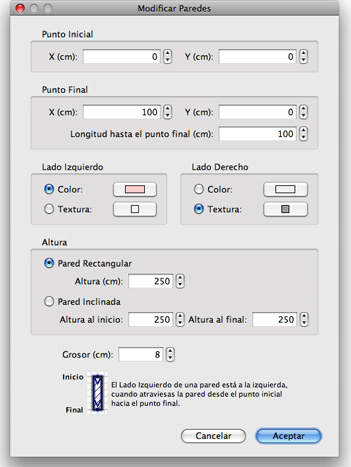
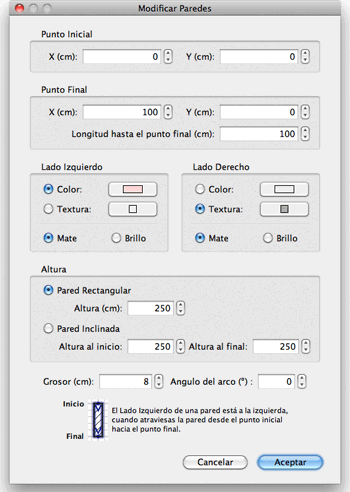
Updated dialog captures
git-svn-id: https://svn.code.sf.net/p/sweethome3d/code/trunk@2874 03e323e1-6c6c-46a5-9f71-c4ce5d8c6204

diff --git a/com/eteks/sweethome3d/viewcontroller/resources/help/cs/editingWalls.html b/com/eteks/sweethome3d/viewcontroller/resources/help/cs/editingWalls.html
@@ -74,7 +74,7 @@
 Při stisku tlačítka myši se zobrazí kontextová nápověda zobrazující délku vybrané zdi.<br>
         Veškeré úpravy zdí ve 2D plánu projektu se automaticky projevují ve 3D náhledu.</p>
         <p>Zdi můžete rovněž upravovat pomocí okna, které spustíte buď dvojitým kliknutím na vybrané zdi v plánu, nebo po označení zdi nabídkou  <i>Plán &gt; Upravit zdi...</i>.</p>
-        <p align="center"><img src="images/editingWalls.png" width="356" height="465"></p>
+        <p align="center"><img src="images/editingWalls.png" width="368" height="495"></p>
         <p>V okně úpravy zdí můžete měnit&nbsp;umístěn počátečního a konečného bodu zdi, barvu nebo texturu její levé i pravé strany, její tloušťku a výšku.<br>
 
           Jedná-li se o šikmou zeď, použijte jinou výšku jejího počátečního i konečného bodu a ujistěte se, že jste označili políčko <i>Šikmá zeď</i>.<br>

diff --git a/com/eteks/sweethome3d/viewcontroller/resources/help/bg/editingFurniture.html b/com/eteks/sweethome3d/viewcontroller/resources/help/bg/editingFurniture.html
@@ -129,7 +129,7 @@
 обекти, или като го маркирате и изберете менюто <i>Мебелировка
 &gt;&nbsp;Промени...</i> .</p>
           
-<p align="center"><img src="images/editingFurniture.png" alt="Промяна характеристиките на мебел" height="232" width="441"></p>
+          <p align="center"><img src="images/editingFurniture.png" alt="Промяна характеристиките на мебел" height="436" width="465"></p>
 <p>В появилия се панел, Вие можете да промените името на обекта, координатите 
 на неговия център по X и Y в плана, повдигането на основата му от пода, ширината 
 и дълбочината му, неговия цвят или шарка, дали да е видим, завъртането му, дали 

diff --git a/com/eteks/sweethome3d/viewcontroller/resources/help/bg/editingPreferences.html b/com/eteks/sweethome3d/viewcontroller/resources/help/bg/editingPreferences.html
@@ -31,7 +31,7 @@
 <p>За да промените предпочитаните настройки на Sweet Home 3D, 
 изберете <i>Файл &gt; Предпочитания...</i> (<i>Sweet Home 3D &gt;&nbsp;Предпочитания...</i> за Mac OS X).</p>
           
-<p align="center"><img src="images/editingPreferences.png" alt="Предпочитани настройки" width="418" height="348" style="width: 338px; height: 305px;"></p>
+          <p align="center"><img src="images/editingPreferences.png" alt="Предпочитани настройки" width="480" height="428"></p>
 <p>В менюто Предпочитания, можете да промените
 ползвания <i>Език</i> в потребителския интерфейс
 на Sweet Home 3D и <i>Мярката</i>, използвана в

diff --git a/com/eteks/sweethome3d/viewcontroller/resources/help/cs/editingPreferences.html b/com/eteks/sweethome3d/viewcontroller/resources/help/cs/editingPreferences.html
@@ -26,7 +26,7 @@
 <table width="100%" border="0" cellspacing="0" cellpadding="3">
 	<tr>
 	<td><p>Nastavení programu Sweet Home 3D změníte v <i>Sweet Home 3D &gt; Nastavení...</i> v prostředí Mac OS X nebo v <i>Projekt &gt; Nastavení...</i> v jiných systémech.</p>
-	    <p align="center"><img src="images/editingPreferences.png" width="426" height="329"></p>
+	    <p align="center"><img src="images/editingPreferences.png" width="434" height="381"></p>
 	  <p>V okně nastavení můžete měnit <i>jazyk</i> prostředí programu Sweet Home 3D, <i>měrnou jednotku</i> užívanou v pravítku plánu, mřížce a všech dalších rozměrech.    <br>
 						
 	    Políčko <i>přichytávání</i> povoluje či zakazuje užívání přichytávání v plánu projektu při <a href="drawingWalls.html">kreslení zdí</a>

diff --git a/com/eteks/sweethome3d/viewcontroller/resources/help/cs/editingFurniture.html b/com/eteks/sweethome3d/viewcontroller/resources/help/cs/editingFurniture.html
@@ -75,7 +75,7 @@
   Změny nábytku pomocí myši jsou okamžitě promítány do 2D plánu i do 3D náhledu.</p>
 	  <p>Nábytek může být měněn rovněž prostřednictvím okna, které zobrazíte dvojitým kliknutím na vybraný nábytek v plánu projektu nebo v seznamu nábytku,
 	  případně nabídkou <i>Nábytek &gt; Upravit...</i>.</p>
-	    <p align="center"><img src="images/editingFurniture.png" alt="Upravit nábytek" width="393" height="232"></p>
+	    <p align="center"><img src="images/editingFurniture.png" alt="Upravit nábytek" width="400" height="382"></p>
 	  <p>V okně nábytku lze měnit jeho název, úhel otáčení, souřadnici X nebo Y jeho středu, nadzvednutí jeho dna od podlahy, šířku, hloubku, výšku, barvu, viditelnost, a zda má být tvar jeho 3D modelu zrcadlový.<br>
 
 							

diff --git a/com/eteks/sweethome3d/viewcontroller/resources/help/bg/editingRooms.html b/com/eteks/sweethome3d/viewcontroller/resources/help/bg/editingRooms.html
@@ -114,7 +114,7 @@
 променяни и от нейното меню, появяващо се с двойно цъкане върху стаята
 в плана, или чрез избирането на <i>План
 &gt;&nbsp;Промени стая...</i> след като я маркирате.</p>
-          <p align="center"><img src="images/editingRooms.png" height="220" width="296"></p>
+          <p align="center"><img src="images/editingRooms.png" height="284" width="362"></p>
 <p>В менюто на стаята Вие можете да промените името на
 маркираната стая и дали площта и да се изобразява в плана.<br>
 Може да изберете също дали пода и тавана да се изобразяват в 3D

diff --git a/com/eteks/sweethome3d/viewcontroller/resources/help/pl/editingFurniture.html b/com/eteks/sweethome3d/viewcontroller/resources/help/pl/editingFurniture.html
@@ -90,7 +90,7 @@
         <p>Ka&#380;dy mebel mo&#380;e by&#263; r&oacute;wnie&#380; modyfikowany 
           w odpowiednim oknie dost&#281;pnym poprzez podw&oacute;jneklikni&#281;cie 
           obiektu lub menu <i>Meble &gt; Modyfikuj.&nbsp;</i></p>
-        <p align="center"><img src="images/editingFurniture.png" alt="Modify furniture" height="213" width="442"></p>
+        <p align="center"><img src="images/editingFurniture.png" alt="Modify furniture" height="381" width="408"></p>
         <p>W oknie <i>Modyfikuj przedmiot </i>mo&#380;esz zmieni&#263; jego nazw&#281;, 
           k&#261;t obrotu, wsp&oacute;&#322;rz&#281;dne X i Y jego &#347;rodka 
           na siatce planu, podwy&#380;szenie nad poziomem pod&#322;ogi, szeroko&#347;&#263;, 

diff --git a/com/eteks/sweethome3d/viewcontroller/resources/help/pl/editingWalls.html b/com/eteks/sweethome3d/viewcontroller/resources/help/pl/editingWalls.html
@@ -88,7 +88,7 @@
           przypisanym jej&nbsp;oknie. Wystarczy dwukrotnie klikn&#261;&#263; &#347;cian&#281; 
           na planie domu lub wybra&#263; polecenie w menu <i>Plan &gt; Modyfikuj 
           &#347;ciany... </i>po jej uprzednim zaznaczeniu.</p>
-        <p align="center"><img src="images/editingWalls.png" height="465" width="405"></p>
+        <p align="center"><img src="images/editingWalls.png" height="496" width="414"></p>
         <p>W oknie modyfikacj &#347;cian mo&#380;esz zmieni&#263; wsp&oacute;&#322;rz&#281;dne 
           pocz&#261;tku i ko&#324;ca &#347;ciany, kolor lub tekstur&#281; (oddzielnie 
           dla prawej i lewej strony &#347;ciany), grubo&#347;&#263; i wysoko&#347;&#263;.&nbsp;<br>
